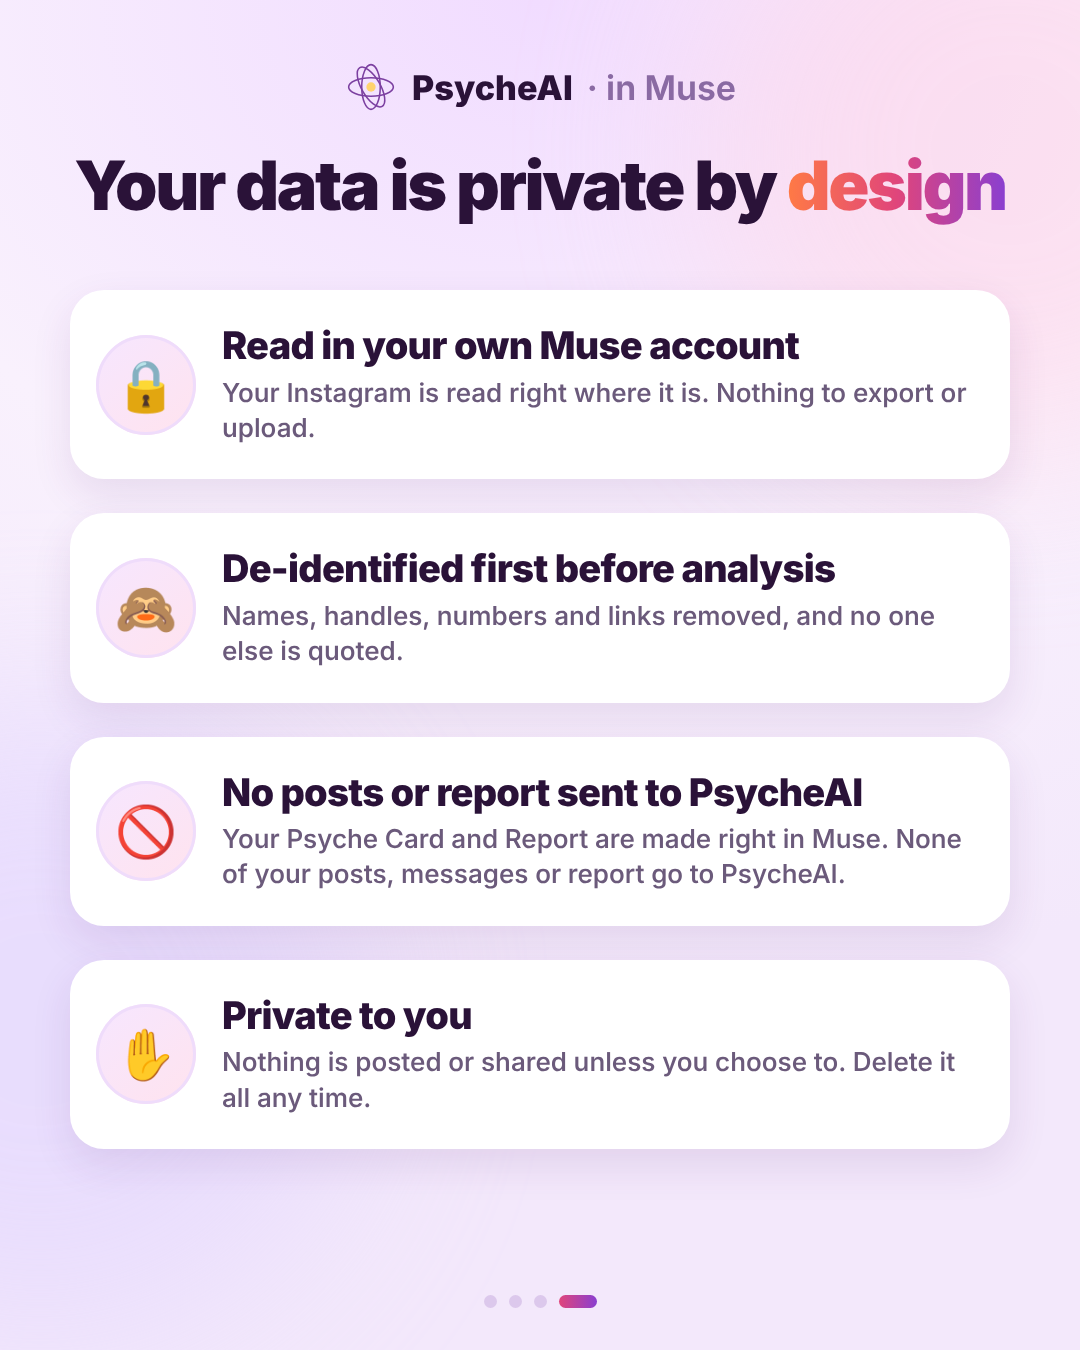
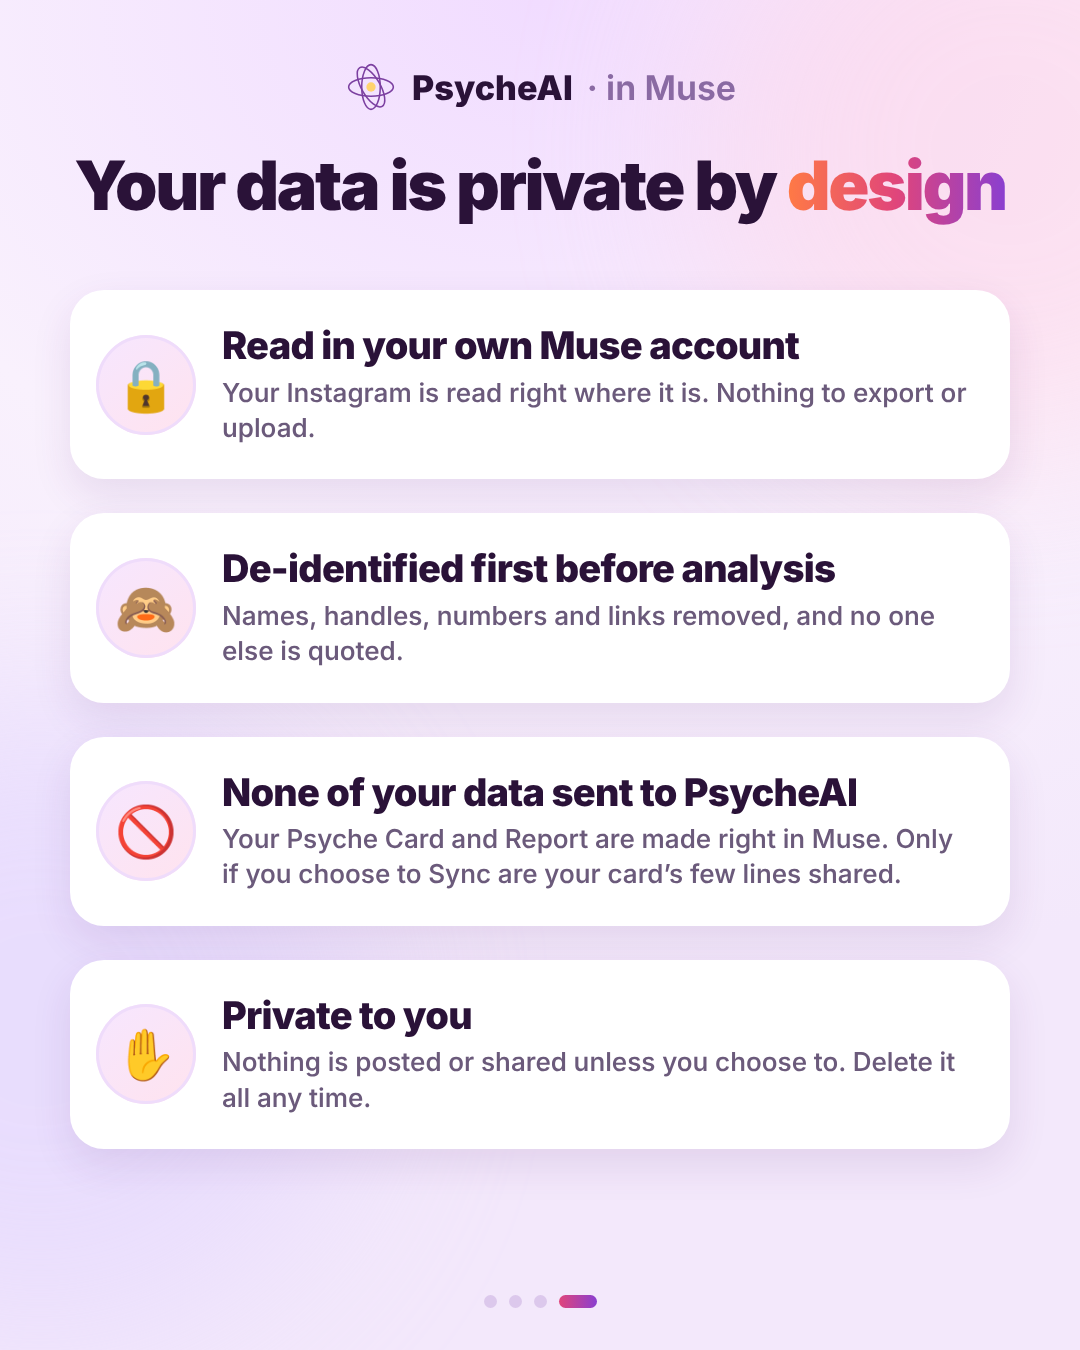
"None of your data sent to PsycheAI", with its one exception (a Sync shares the card's few lines), on the carousel, the front page and /muse-privacy
Claude-Session: https://claude.ai/code/session_0186qSiUYitDU5jn2fe3fejk

Changed region(s): [[0.2139, 0.56, 0.8861, 0.6533]]

diff --git a/promo/carousel-muse.html b/promo/carousel-muse.html
@@ -141,7 +141,7 @@ h1 { position: absolute; left: 60px; right: 60px; text-align: center; font-size:
   <div class="cards">
     <div class="card"><span class="icon">🔒</span><div><b>Read in your own Muse account</b><span class="d">Your Instagram is read right where it is. Nothing to export or upload.</span></div></div>
     <div class="card"><span class="icon">🙈</span><div><b>De-identified first before analysis</b><span class="d">Names, handles, numbers and links removed, and no one else is quoted.</span></div></div>
-    <div class="card"><span class="icon">🚫</span><div><b>No posts or report sent to PsycheAI</b><span class="d">Your Psyche Card and Report are made right in Muse. None of your posts, messages or report go to PsycheAI.</span></div></div>
+    <div class="card"><span class="icon">🚫</span><div><b>None of your data sent to PsycheAI</b><span class="d">Your Psyche Card and Report are made right in Muse. Only if you choose to Sync are your card&#8217;s few lines shared.</span></div></div>
     <div class="card"><span class="icon">✋</span><div><b>Private to you</b><span class="d">Nothing is posted or shared unless you choose to. Delete it all any time.</span></div></div>
   </div>
   <div class="dots"><i></i><i></i><i></i><i class="on"></i></div>

diff --git a/docs/muse-privacy.html b/docs/muse-privacy.html
@@ -38,7 +38,7 @@
     <ul class="privacy-points">
       <li><b>🔒 Read in your own Muse account.</b> Your Instagram, and any WhatsApp chats, Facebook posts or Messenger messages you add, are read in your own Muse account: nothing to export or upload.</li>
       <li><b>🙈 De-identified first before analysis.</b> Your posts and chats are de-identified before your Psyche is written: names, handles, numbers and links removed, and no one else is quoted.</li>
-      <li><b>🚫 No posts or report sent to PsycheAI.</b> Your report and Psyche Card are made in your own Muse workspace. None of your posts, messages or report go to PsycheAI.</li>
+      <li><b>🚫 None of your data sent to PsycheAI.</b> Your report and Psyche Card are made in your own Muse workspace. None of your posts, messages or report go to PsycheAI; only if you choose to Sync are your card’s few lines shared.</li>
       <li><b>✋ Private to you.</b> Nothing is posted or shared with other people unless you choose to. Delete it all any time: say "Delete my PsycheAI data" in Muse, or tap My data and privacy.</li>
     </ul>
   </section>

diff --git a/docs/index.html b/docs/index.html
@@ -300,7 +300,7 @@
     <ul class="muse-points">
       <li><b>Read in your own Muse account.</b> Your Instagram is read right where it is. Nothing to export or upload.</li>
       <li><b>De-identified first before analysis.</b> Names, handles, numbers and links removed, and no one else is quoted.</li>
-      <li><b>No posts or report sent to PsycheAI.</b> Your Psyche Card and Report are made right in Muse. None of your posts, messages or report go to PsycheAI.</li>
+      <li><b>None of your data sent to PsycheAI.</b> Your Psyche Card and Report are made right in Muse. Only if you choose to Sync are your card’s few lines shared.</li>
       <li><b>Private to you.</b> Nothing is posted or shared unless you choose to. Delete it all any time.</li>
     </ul>
     <p class="vs-more"><a href="/muse-privacy">Muse privacy in full →</a> · <a href="/muse-docs#signed">Check your copy against the public code →</a></p>

diff --git a/README.md b/README.md
@@ -2823,7 +2823,7 @@ rules for writing it live here, so the plugin and the site can't drift.
 
 **Introvert signals on E/I (3 Nov 2026).** Two reads of one digest put the same reader at Extraversion 56 and 76; looking for I as hard as for E found three signals the ledger had no row for: "Gosh cant stand all this small talk", "I went by myself… on a tour" and "Solo date 🥲", and a long debate taken to one friend with an essay rather than to a group. The rubric (`lib/mbtiScore.js`) now has them in general form: the strong `own-words` row includes what being with people costs or gives them (small talk, time alone after people / coming alive with new people); `solo-by-choice` (weak, I) is things done alone by choice and said so, never alone because nobody was free; `keeps-reaching-out` (weak, E) is plans started again and again across the years, or friends introduced to each other; `one-to-one` (weak) is where they take what matters, to one person at length (I) or to a group or audience (E), kept apart from loyalty (long, close threads), which still counts for neither letter. The Muse guide's E/I line names the first two. The free and one-call prompt reserves grew with the rubric (15,600 and 41,800). The next read of the same digest went to I 46 with solo-by-choice at medium, so it went down to weak, and the E side gained keeps-reaching-out.
 
-**The prompt box, the privacy titles and the reel's list (5 Nov 2026).** *The hero's box:* "Paste prompt into Muse" over the prompt on white inside its dotted line; tapping the prompt copies it as the button does (`data-copy-by`, copybutton.js), the button then says "Copied ✓" and a line, "Copied. Now open Muse and paste it.", shows for four seconds; under it, "Tap **Always allow this site** · ~5 minutes". *The four privacy points*, the same on the front page, /muse-privacy and the carousel's last page: "Read in your own Muse account", "De-identified first before analysis", "No posts or report sent to PsycheAI" (not "Nothing sent to PsycheAI": the skill does ask our server for its account, menus and updates, and a Sync sends the card's few lines), "Private to you". The first and third had both said "in Muse" ("Stays in your Muse", "Processed within Muse") and read as one point twice. *Elsewhere:* step 2 is "Always allow this site"; step 4 and the carousel's last step say "sync with a connection". *The reel's list* (the card's line, about 0:24) runs at its own pace: on the beat, each phrase waited for the next half-beat and paused before "interests and values", "love languages" and "who you sync with" (`OFF_BEAT` in promo/vo.py; the line still starts on the beat). The site's video is that build.
+**The prompt box, the privacy titles and the reel's list (5 Nov 2026).** *The hero's box:* "Paste prompt into Muse" over the prompt on white inside its dotted line; tapping the prompt copies it as the button does (`data-copy-by`, copybutton.js), the button then says "Copied ✓" and a line, "Copied. Now open Muse and paste it.", shows for four seconds; under it, "Tap **Always allow this site** · ~5 minutes". *The four privacy points*, the same on the front page, /muse-privacy and the carousel's last page: "Read in your own Muse account", "De-identified first before analysis", "None of your data sent to PsycheAI", its line saying the one exception: "Only if you choose to Sync are your card's few lines shared." (Not "Nothing sent" or "No data sent": the skill asks our server for its account, menus and updates, which carry nothing about them, and a Sync sends the card's few lines. The Muse welcome keeps its own line, "None of your posts, messages or report go to PsycheAI".), "Private to you". The first and third had both said "in Muse" ("Stays in your Muse", "Processed within Muse") and read as one point twice. *Elsewhere:* step 2 is "Always allow this site"; step 4 and the carousel's last step say "sync with a connection". *The reel's list* (the card's line, about 0:24) runs at its own pace: on the beat, each phrase waited for the next half-beat and paused before "interests and values", "love languages" and "who you sync with" (`OFF_BEAT` in promo/vo.py; the line still starts on the beat). The site's video is that build.
 
 **Muse first on the front page (5 Nov 2026).** The front page now starts people in Meta Muse; loading files is the way in without Muse. *Hero:* "A full personality study from your Instagram, made in Meta Muse. No questions asked. Free.", the four pills, then the prompt to paste (*Install psycheai.io/muse and generate my Psyche*) with a Copy button (copybutton.js, as on /muse), and one line, "No Muse? Load your WhatsApp or Instagram files" (`#hero-wa`, to the files' steps). "Start with WhatsApp", "Request my IG data" and "Already have your files? Load here" are gone (`#hero-start` and `#hero-load` are optional in app.js; Load my data is in Start here). The video is the Muse reel, 720 wide (promo/build.sh's `muse` case writes it; `site` no longer does). *How it works in Muse:* paste the prompt; allow it once (it covers app.psycheai.io only); your Psyche in 5 minutes; ask and sync. *Where does your data go?* is the Muse path in the welcome's four points, with links to /muse-privacy and checking a copy; then "Get your Psyche in Muse" repeats the prompt before the files. *The files:* folded away by default under one line, "No Muse? Load your WhatsApp or Instagram files" (`<details id="files-more">`): inside, "Load your files instead" with the price said once ("Your first Psyche Card and Report are free; a re-run is US$5", in local currency as elsewhere), the WhatsApp and Instagram steps, and Start here, unchanged. `openFiles()` in app.js opens it before anything scrolls into it (the hero's "No Muse?" link, an invite's guide button, the gift banner) or shows a message inside it (an upload error); the server's status note sits above it, so it shows while folded. The ChatGPT comparison for files ("Where do your files go?") is gone. The title and descriptions name Muse.
 
